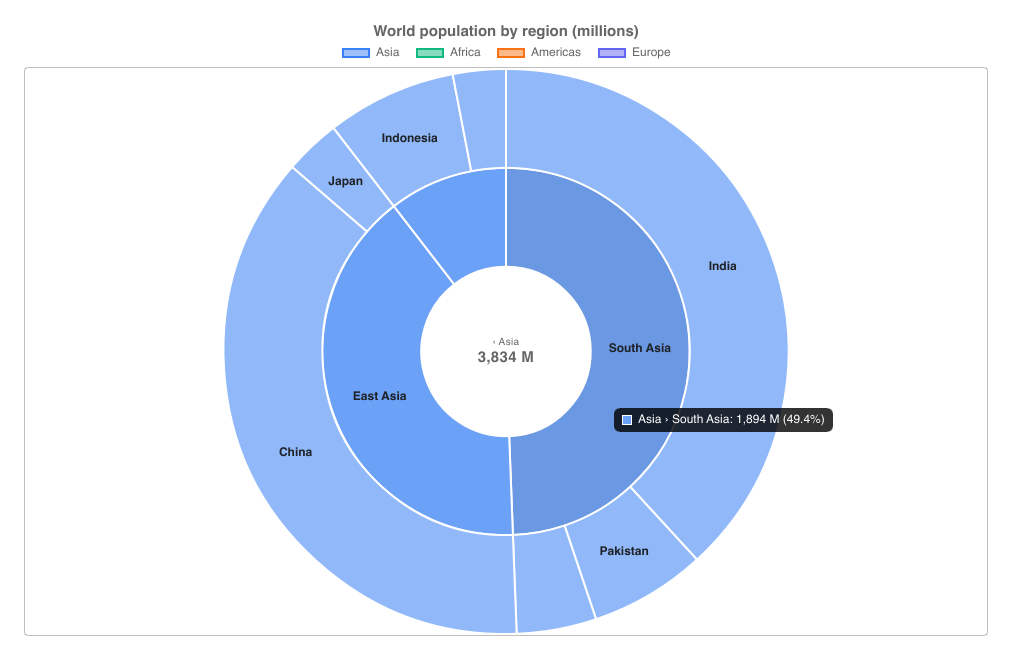
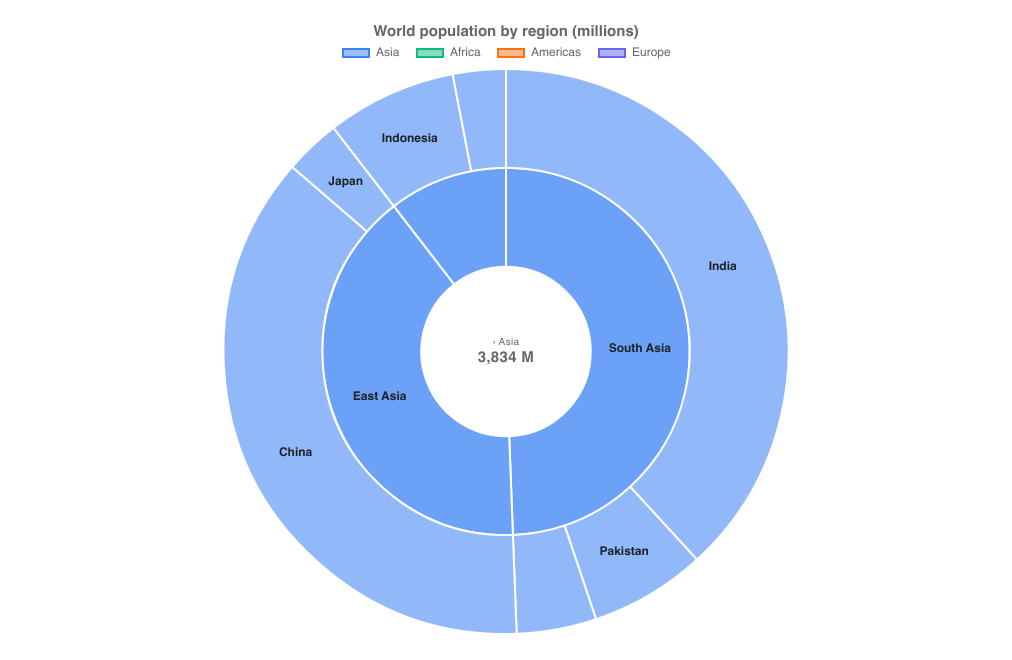
Pricing: free to try, a license to sell; docs sunburst screenshot without tooltip or focus outline

Changed region(s): [[0.582, 0.6061, 0.8271, 0.6667]]

diff --git a/docs/index.html b/docs/index.html
@@ -1922,6 +1922,8 @@ slintplot-stress                  # the interactive stress test</code></pre>
 </ul>
 
 <h2 id="pricing">Pricing</h2>
+<div class="note"><strong>Free to try.</strong> Download SlintPlot, experiment and build prototypes for free, at home or at work.
+You need a commercial license when you sell, ship or deliver a closed-source product that uses it.</div>
 <p>SlintPlot is free for open-source software under the GPLv3 and for noncommercial use (see <a href="#license">License</a>).
 A commercial license lets you use it in closed-source software you sell, ship or deliver to clients.
 Licenses are per developer, per year, and cover any number of your products.</p>

diff --git a/examples/gallery/src/main.rs b/examples/gallery/src/main.rs
@@ -1909,8 +1909,15 @@ fn docs(
     shot("calendar", "calendar-github", false, &|| ui.set_calendar_colors(1))?;
     ui.set_calendar_colors(0);
     shot("time-week", "time-week-1h", false, &|| state.borrow_mut().action(3))?;
-    shot("treemap", "treemap-hidden", false, &|| snapshot::click(window, TREEMAP_ASIA.0, TREEMAP_ASIA.1))?;
-    shot("sunburst", "sunburst-zoomed", false, &|| snapshot::click(window, SUNBURST_ASIA.0, SUNBURST_ASIA.1))?;
+    // A click, then the mouse leaves and the window loses focus, so neither
+    // a tooltip nor the focus outline shows.
+    let click = |(x, y): (f32, f32)| {
+        snapshot::click(window, x, y);
+        snapshot::leave(window);
+        window.dispatch_event(slint::platform::WindowEvent::WindowActiveChanged(false));
+    };
+    shot("treemap", "treemap-hidden", false, &|| click(TREEMAP_ASIA))?;
+    shot("sunburst", "sunburst-zoomed", false, &|| click(SUNBURST_ASIA))?;
     ui.set_language(2);
     shot("languages", "languages-de", false, &|| ())?;
     shot("languages", "languages-de-dark", true, &|| ())?;

diff --git a/COMMERCIAL.md b/COMMERCIAL.md
@@ -13,6 +13,13 @@ SlintPlot is free under either of two licenses (see [LICENSE.md](LICENSE.md)):
   and use by charitable, public research, public safety, health and
   government organizations, as listed in the license
 
+## Free to try
+
+Download SlintPlot, experiment and build prototypes for free, at home or at
+work: using it within your own organization, without giving the software to
+others, is allowed under the GPLv3. You need a commercial license when you
+sell, ship or deliver a closed-source product that uses it.
+
 ## When you need a commercial license
 
 You need a commercial license when you use SlintPlot for a commercial

diff --git a/README.md b/README.md
@@ -663,6 +663,10 @@ What SlintPlot 0.2 doesn't do yet, or does with restrictions:
 
 ## License
 
+Download SlintPlot, experiment and build prototypes for free, at home or at
+work. You need a commercial license when you sell, ship or deliver a
+closed-source product that uses it.
+
 SlintPlot is available under your choice of three licenses:
 
 - **GPLv3**: free for anyone, for any purpose. Software that includes
